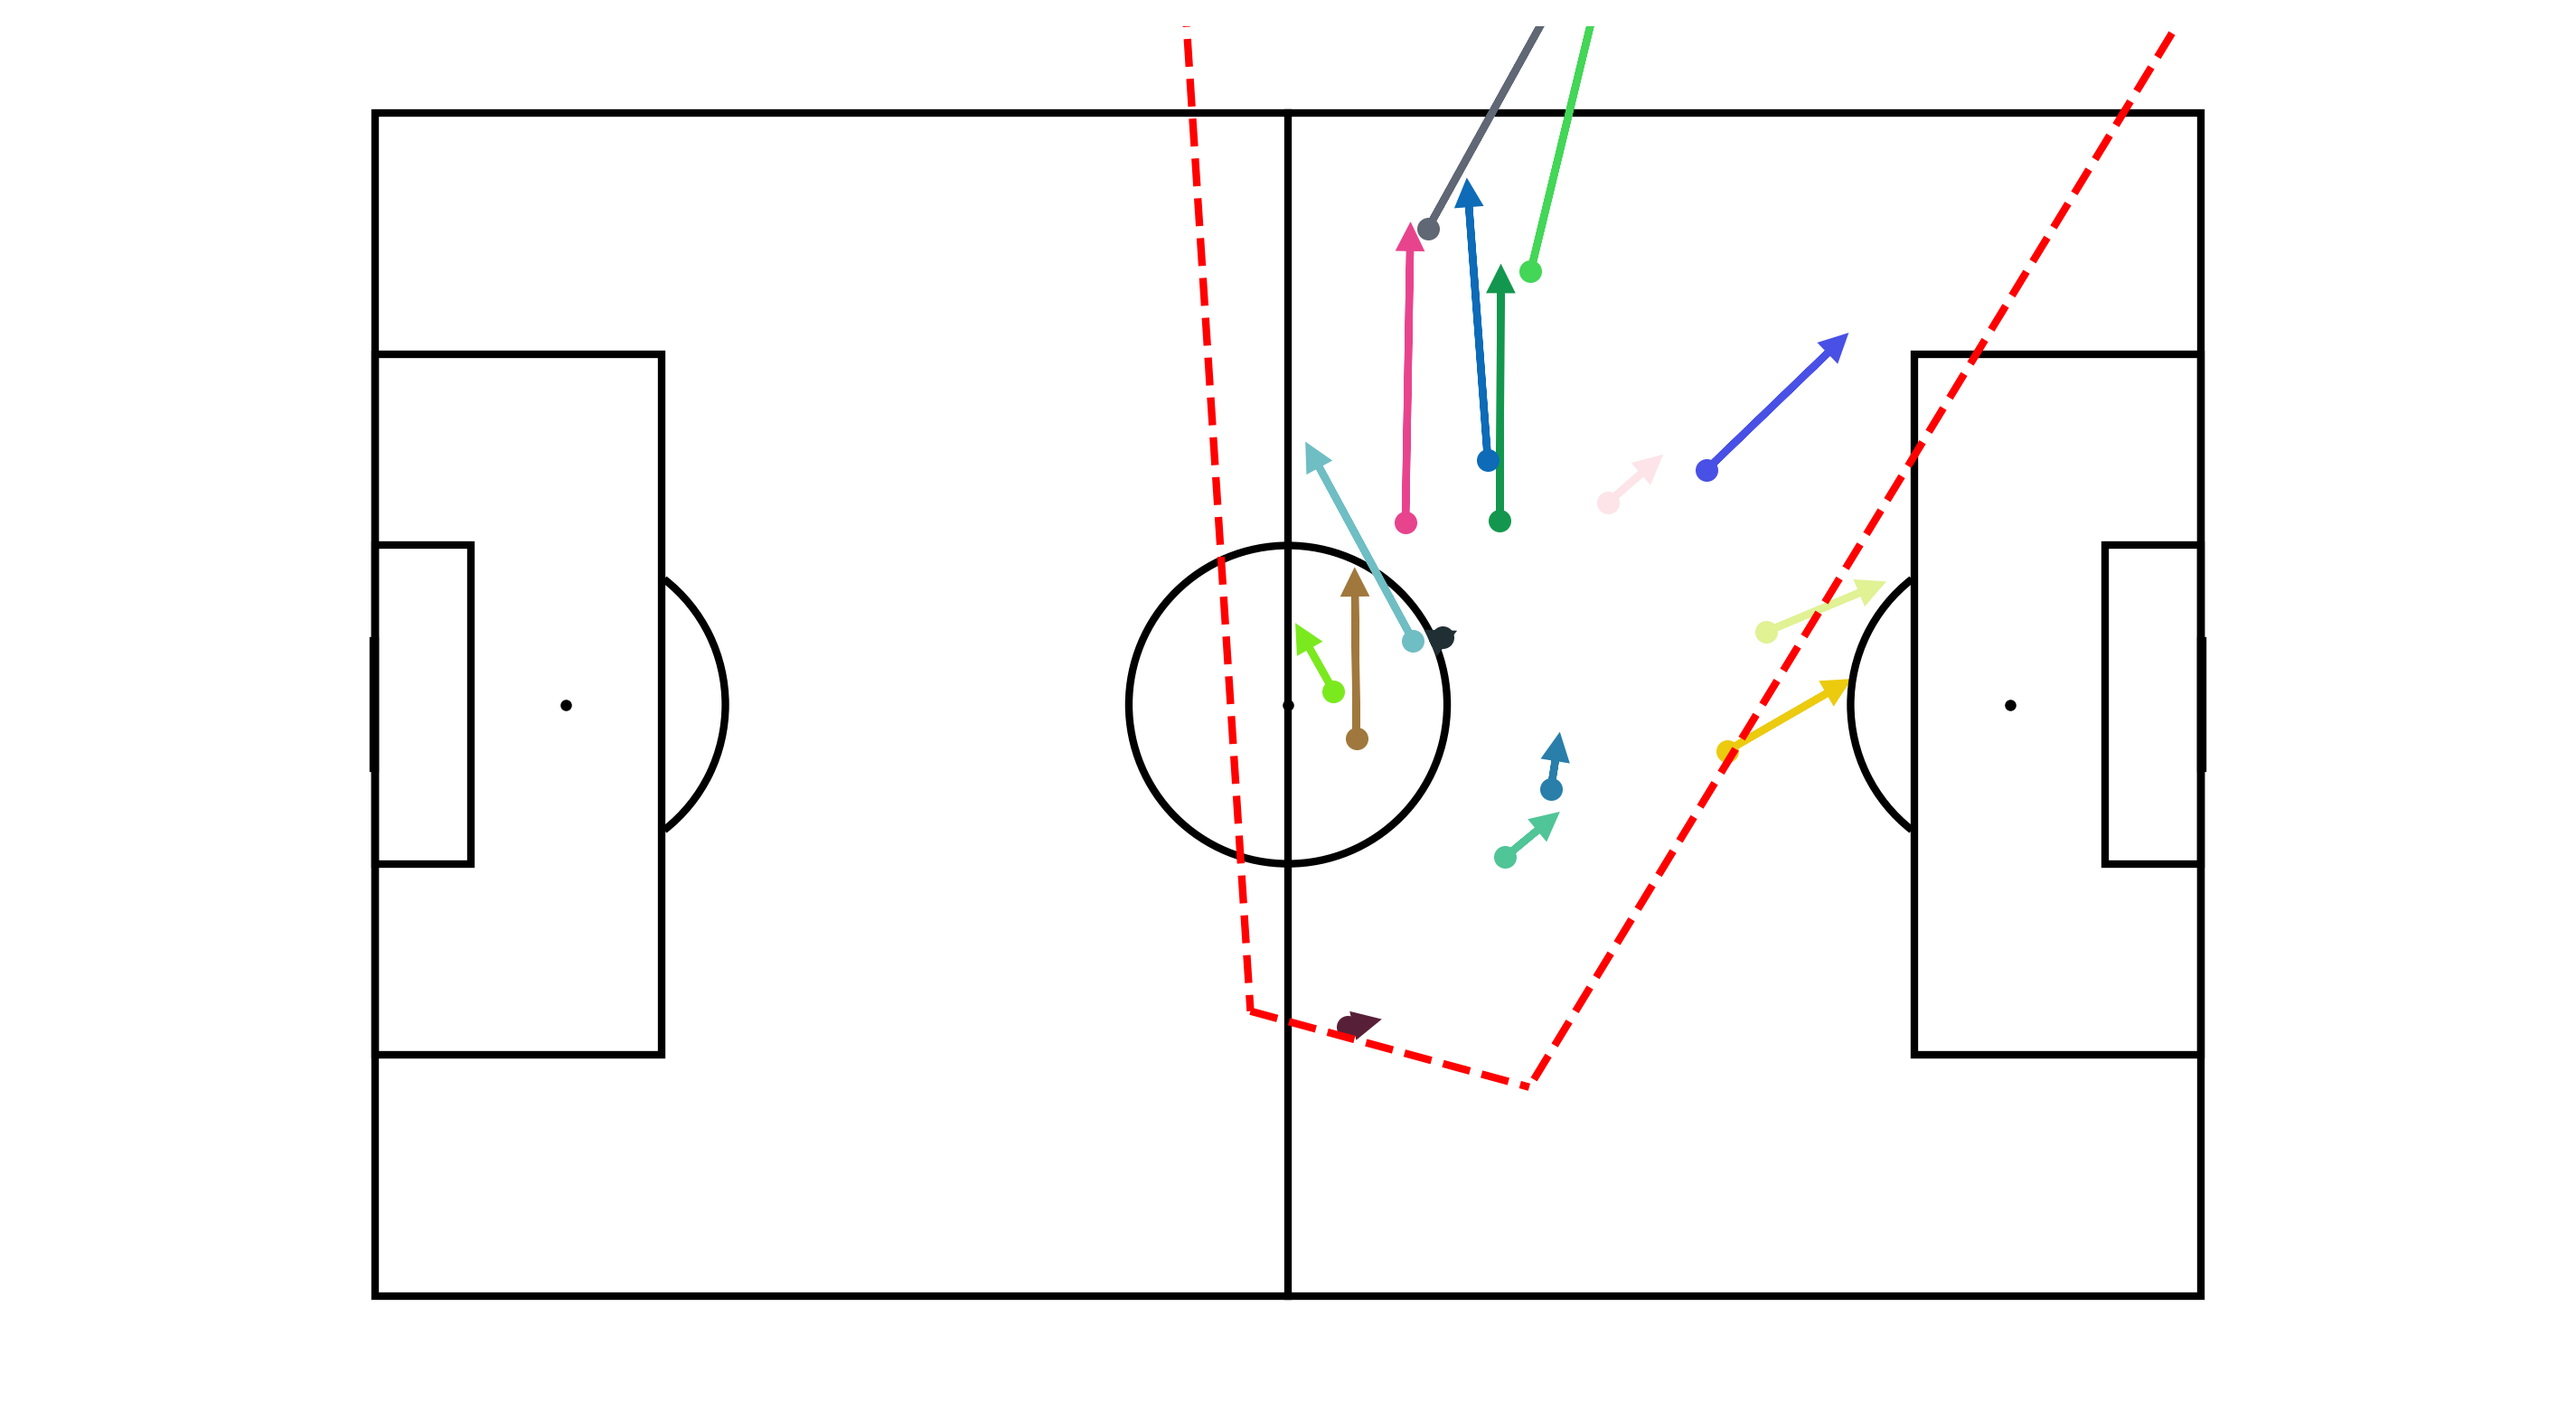
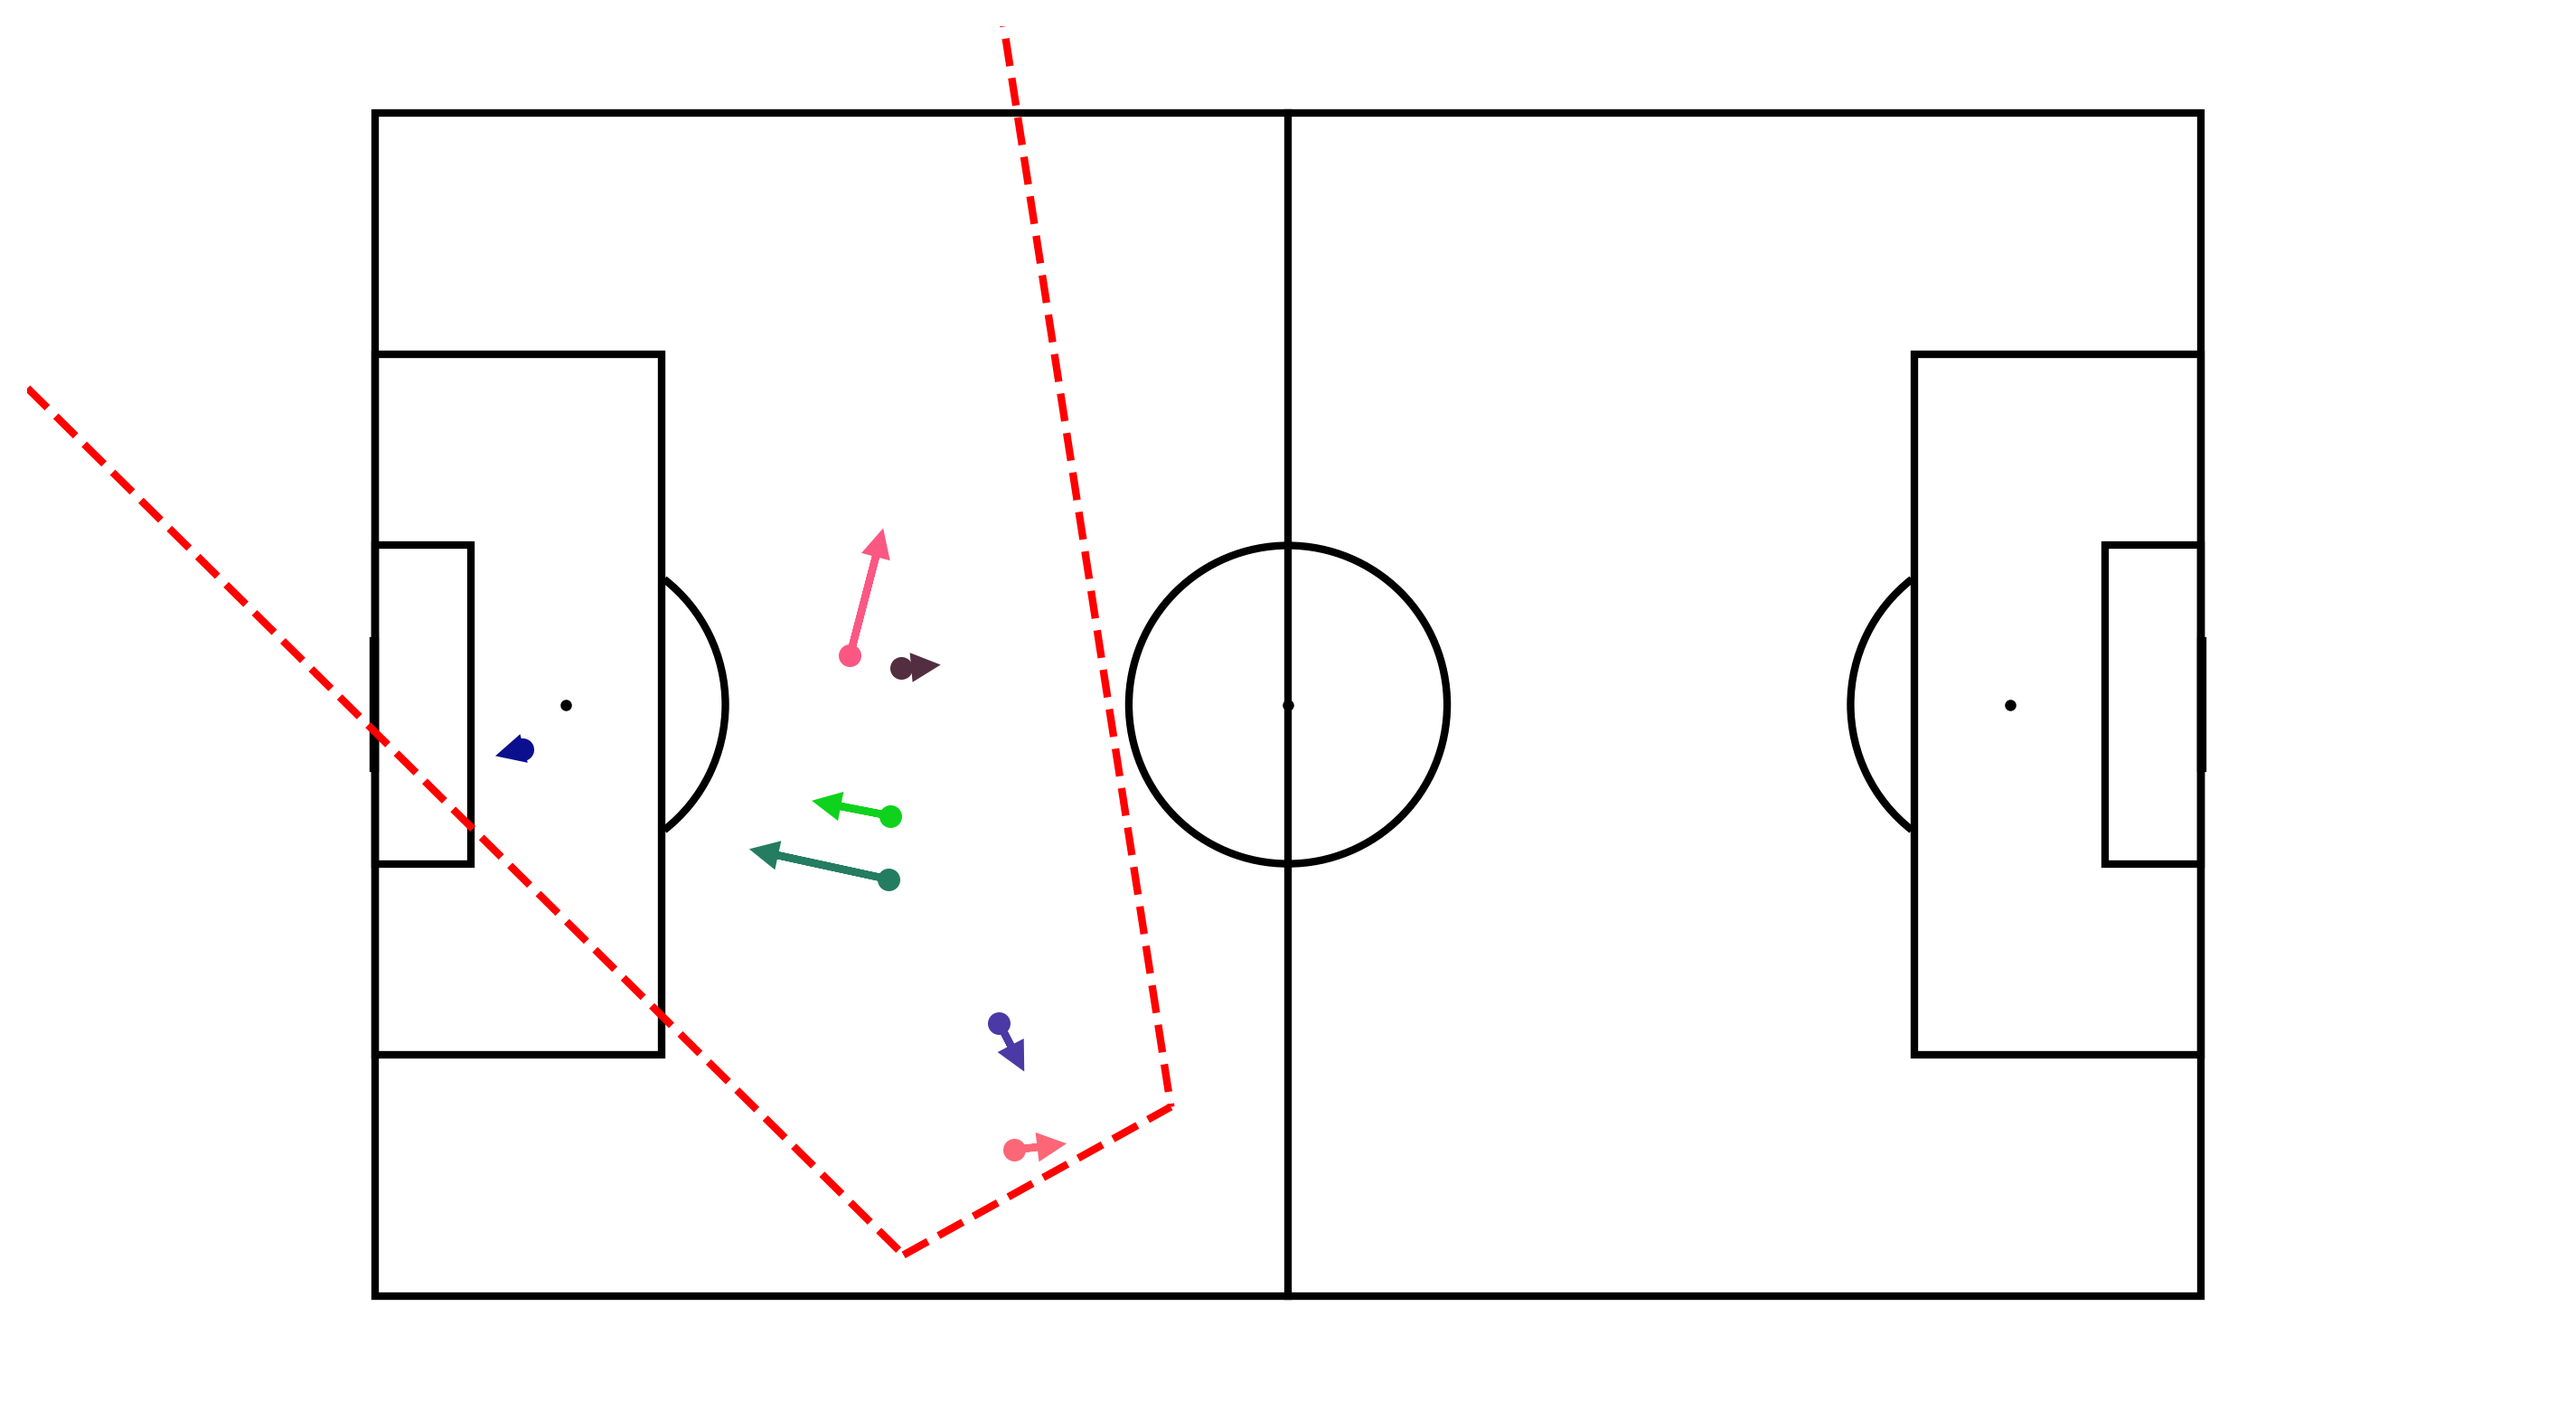
fix bugs

diff --git a/process.py b/process.py
@@ -34,7 +34,7 @@ def get_position_and_direction(bbox, flow, H, width, height, fps = 25, constant=
 
     x_real,y_real = project_point(H, (x_img, y_img))
     print(f"{(x_img, y_img)} -> {(x_real, y_real)}")
-    print(project_point(H, (0.6458333333333334, 0.37407407407407406)))
+    # print(project_point(H, (0.6458333333333334, 0.37407407407407406)))
     x_real_nx, y_real_nx = project_point(H, (x_img + fx, y_img + fy))
 
     fx = x_real_nx - x_real
@@ -49,10 +49,10 @@ def process_frame_json():
     pre_t = -1
     half = "first"
     for element in frame_information_json["matrix"]:
-        if element["time"] < pre_t:
-            assert half == "first", f"Error: {element['time']} < {pre_t} in {half} half"
+        if element["frame"] < pre_t:
+            assert half == "first", f"Error: {element['frame']} < {pre_t} in {half} half"
             half = "second"
-        pre_t = element["time"]
+        pre_t = element["frame"]
         new_element = element.copy()
         new_element["half"] = half
 
@@ -64,20 +64,24 @@ def process_frame_json():
                 break
         if has_nan:
             continue
+        
+        if new_element["error"] > 0.5:
+            continue
 
         if new_element["matrix"] is not None:
             new_frame_json.append(new_element)
 
     return new_frame_json
 
-def visulize_one_frame(ht, half, frame_info):
+def visulize_one_frame(frame_idx, half, frame_info):
     info = None
     for frame in frame_info:
-        if frame["htime"] == ht and frame["half"] == half:
+        # print(frame)
+        if frame["frame"] == frame_idx and frame["half"] == half:
             info = frame
             break
     if info is None:
-        print(f"Error: {ht} not found in {half} half")
+        print(f"Error: frame {frame_idx} not found in {half} half")
         return
     
     video_path = first_half_video_path if half == "first" else second_half_video_path
@@ -85,7 +89,7 @@ def visulize_one_frame(ht, half, frame_info):
 
     fps = cap.get(cv2.CAP_PROP_FPS)
 
-    frame_number = int(info["time"] * fps)
+    frame_number = frame_idx
 
     print(info["time"], frame_number)
 
@@ -100,17 +104,18 @@ def visulize_one_frame(ht, half, frame_info):
         x,y,w,h = info["bboxes_ltwh"][i]
         categories = info["categories"][i]
         role_detections = info["role_detections"][i]
+        team = info["team_detections"][i]
         flow_x, flow_y = info["optical_flows"][i]
         flow_x *= 50
         flow_y *= 50
         cv2.rectangle(frame, (int(x), int(y)), (int(x+w), int(y+h)), (0, 255, 0), 2)
-        cv2.putText(frame, f"{categories} {role_detections}", (int(x), int(y)), cv2.FONT_HERSHEY_SIMPLEX, 0.5, (0, 255, 0), 2)
+        cv2.putText(frame, f"{categories} {role_detections} {team}", (int(x), int(y)), cv2.FONT_HERSHEY_SIMPLEX, 0.5, (0, 255, 0), 2)
         cv2.arrowedLine(frame, (int(x+w/2), int(y+h/2)), (int(x+w/2+flow_x), int(y+h/2+flow_y)), (255, 0, 0), 1)
         
     # save to f"{path}/output/{ht}_{half}.jpg"
-    if not os.path.exists(f"{path}/output"):
-        os.makedirs(f"{path}/output")
-    cv2.imwrite(f"{path}/output/{ht}_{half}.jpg", frame)
+    if not os.path.exists(f"{path}/output/{frame_idx}-{half}"):
+        os.makedirs(f"{path}/output/{frame_idx}-{half}")
+    cv2.imwrite(f"{path}/output/{frame_idx}-{half}/3d.jpg", frame)
     
     H = info["matrix"]
     H = np.array(H)
@@ -130,10 +135,11 @@ def visulize_one_frame(ht, half, frame_info):
         x,y,w,h = info["bboxes_ltwh"][i]
         categories = info["categories"][i]
         role_detections = info["role_detections"][i]
+        team = info["team_detections"][i]
         pos = positions[i]
         dir = directions[i]
-        positions_dict[f"{categories}-{role_detections}-{i}"] = pos
-        directions_dict[f"{categories}-{role_detections}-{i}"] = dir
+        positions_dict[f"{categories}-{role_detections}-{team}-{i}"] = pos
+        directions_dict[f"{categories}-{role_detections}-{team}-{i}"] = dir
 
     positions_dict["left_top"] = project_point(H, (0, 0))
     positions_dict["right_top"] = project_point(H, (1, 0))
@@ -143,7 +149,7 @@ def visulize_one_frame(ht, half, frame_info):
     print("Positions: ", positions_dict)
     print("Directions: ", directions_dict)
 
-    get_pitch(positions_dict, directions_dict)
+    get_pitch(positions_dict, directions_dict, f"{path}/output/{frame_idx}-{half}/2d.jpg")
     cap.release()
 
 def process_one_frame(ht, half, frame_info):
@@ -213,10 +219,17 @@ def process_one_frame(ht, half, frame_info):
 if __name__ == "__main__":
     new_frame = process_frame_json()
 
-    # all_time_half = []
-    # for frame in new_frame:
-    #     all_time_half.append((frame["htime"], frame["half"]))
-    #     print(frame["htime"], frame["half"])
+    print("Total frames: ", len(new_frame))
+
+
+    # save to f"{path}/new_output.json" 
+    with open(f"{path}/new_output.json", "w") as f:
+        json.dump(new_frame, f, indent=4)
+
+    all_time_half = []
+    for frame in new_frame:
+        all_time_half.append((frame["frame"], frame["half"]))
+        print(frame["frame"], frame["half"])
 
 
     # results = []
@@ -228,4 +241,6 @@ if __name__ == "__main__":
     # with open(f"{path}/results.json", "w") as f:
     #     json.dump(results, f, indent=4)
 
-    visulize_one_frame("12:28", "first", new_frame)
+    # visulize_one_frame(251, "first", new_frame)
+    for ht, half in tqdm(all_time_half):
+        visulize_one_frame(ht, half, new_frame)

diff --git a/get_annotation.py b/get_annotation.py
@@ -170,7 +170,7 @@ def load_models():
 
     return model, model_l
 
-def run_demo(images, model, model_l):  
+def run_demo(images, model, model_l, visualize=False):  
     
     # Preprocess all images and stack them into a batch
     tfms_resize = T.Compose([  
@@ -225,16 +225,53 @@ def run_demo(images, model, model_l):
         lines = kp_to_realworld(final_dict[0])
         annotations.append(lines)
 
+
+    if visualize:
+        # visualize the keypoints
+        vis_image = images[0].copy()
+        from PIL import ImageDraw
+        draw = ImageDraw.Draw(vis_image)
+
+        for annotation in annotations[0]:
+            # 计算图像坐标
+            x = annotation['x_image'] * vis_image.width
+            y = annotation['y_image'] * vis_image.height
+            # 绘制一个半径为5的圆圈
+            radius = 5
+            draw.ellipse((x - radius, y - radius, x + radius, y + radius), outline='red', width=2)
+            # 绘制真实坐标文字
+            text = f"({annotation['x_world']:.2f}, {annotation['y_world']:.2f})"
+            draw.text((x + radius, y), text, fill='red')
+
+        plt.figure(figsize=(8,6))
+
+        # save the image
+        vis_image.save("kp.png")
+
     return annotations
 
 
 if __name__ == "__main__":
+
+
+    video_path = "game_example/1_720p.mkv"
+    frame_idxs = [379, 380]
+
+    # Load the image
+
+    # for frame_idx in frame_idxs:
+    #     import cv2
+    #     video = cv2.VideoCapture(video_path)
+    #     video.set(cv2.CAP_PROP_POS_FRAMES, frame_idx)
+    #     ret, frame = video.read()
+    #     # save the image
+    #     cv2.imwrite(f"{frame_idx}.jpg", frame)
+
     paths = [
-        "calibration-2023/train/00000.jpg",
-        "calibration-2023/train/00001.jpg",
-        "calibration-2023/train/00002.jpg",
-        "calibration-2023/train/00003.jpg",
+        f"{frame_idx}.jpg" for frame_idx in frame_idxs
     ]
     images = [Image.open(path).convert("RGB") for path in paths]
-    annotations = run_demo(images)
-    print(annotations)
+    model, mdoel_l = load_models()
+    annotations = run_demo(images, model, mdoel_l, visualize=True)
+    for idx, annotation in enumerate(annotations):
+        print(f"Frame {frame_idxs[idx]}: {len(annotation)} keypoints detected.")

diff --git a/segment_time_camera.py b/segment_time_camera.py
@@ -13,6 +13,7 @@ def process(frames, fps):
     results = {}
     for i, (image, frame_idx) in enumerate(frames):
         annotation = annotations[i]
+        # print(frame_idx, len(annotation))
         if annotation is None:
             continue
         matrix, error = process_anno(annotation)
@@ -68,9 +69,11 @@ def process_time_segment(video_path, start_time, end_time, num_frame_each_second
 
     while True:
         ret, frame = video.read()
-        if not ret or video.get(cv2.CAP_PROP_POS_FRAMES) > end_frame:
+        # to RGB
+        frame = cv2.cvtColor(frame, cv2.COLOR_BGR2RGB)
+        current_frame_number = int(video.get(cv2.CAP_PROP_POS_FRAMES)) - 1
+        if not ret or current_frame_number > end_frame:
             break
-        current_frame_number = int(video.get(cv2.CAP_PROP_POS_FRAMES))
         t = int(current_frame_number / fps)
         key = f"{t}({int(t // 60)}:{int(t % 60):02d})"
         if key in results and len(results[key]) >= num_frame_each_second:
@@ -92,14 +95,20 @@ def process_time_segment(video_path, start_time, end_time, num_frame_each_second
     video.release()
     bar.close()
 
+    new_results = {}
+
     for key, value in results.items():
         if len(value) > num_frame_each_second:
             value.sort(key=lambda x: x["frame"])
-            results[key] = value[:num_frame_each_second]
+            new_results[key] = value[:num_frame_each_second]
         else:
-            results[key] = value
+            new_results[key] = value
 
-    return results
+    # for key, value in new_results.items():
+    #     for i in range(len(value)):
+    #         print(f"key: {key}, len: {len(value)}, {value[i]['frame'], len(value[i]['annotation'])}")
+
+    return new_results
     
 if __name__ == "__main__":
     video_path = "test_video"

diff --git a/pitch.py b/pitch.py
@@ -9,7 +9,7 @@ def get_random_color(seed_value):
     random.seed(seed_value)
     return (random.random(), random.random(), random.random())
 
-def get_pitch(positions, running_direction):
+def get_pitch(positions, running_direction, save_dir = 'soccer_pitch.png'):
     # 场地尺寸（米）
     field_length = 105
     field_width = 68
@@ -83,12 +83,12 @@ def get_pitch(positions, running_direction):
             text_x = field_length / 2 + 15
             alignment = 'left'
 
-        # # 3⃣ 绘制名字
+        # # # 3⃣ 绘制名字
         # ax.text(text_x, pos[1], player, fontsize=10, color=color,
         #         ha=alignment, va='center',
         #         bbox=dict(facecolor='white', edgecolor=color, boxstyle='round,pad=0.3'))
 
-        # # 4⃣ 绘制连接线
+        # # # 4⃣ 绘制连接线
         # line = lines.Line2D([pos[0], text_x], [pos[1], pos[1]], color=color, lw=0.8, linestyle='--')
         # ax.add_line(line)
 
@@ -144,7 +144,7 @@ def get_pitch(positions, running_direction):
         ax.add_patch(goal)
 
     # --- 保存图片 ---
-    filename = f'soccer_pitch.png'
+    filename = save_dir
     plt.savefig(filename, dpi=300, bbox_inches='tight')
     print(f"Saved visualization as: {filename}")
 

diff --git a/process_dataset.py b/process_dataset.py
@@ -399,7 +399,7 @@ def process_anno(annotations):
         H, error = calc_H(data, np.random.rand(9))
         if H is None:
             break
-        if error < 2:
+        if error < 0.5:
             break
         H = None
 
@@ -554,6 +554,3 @@ if __name__ == "__main__":
         #     result = process("valid", i)
         #     results[i] = result
         print(f"valid done, {sum(results)}/ {len(results)}")
-
-
-    
